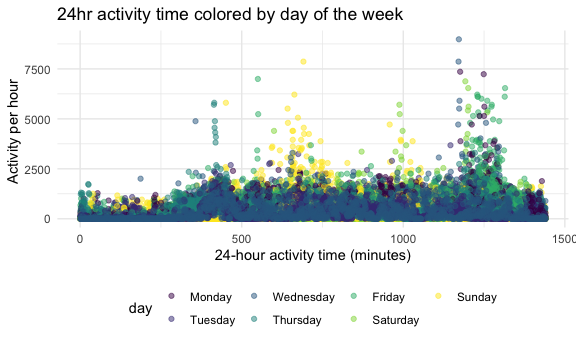
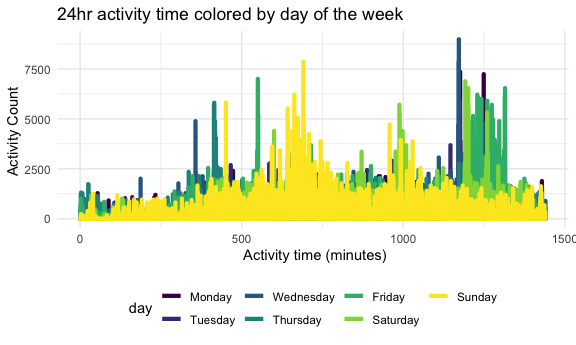
Reworked P1, P2 and initial work for P3

diff --git a/p8105_hw3_lcg2154.md b/p8105_hw3_lcg2154.md
@@ -163,6 +163,10 @@ pivot_wider(names_from = "day",
 |    4 | 409450.00 | 319568.0 |    434460 | 340291.0 | 154049.0 |     1440 | 260617 |
 |    5 | 389080.00 | 367824.0 |    445366 | 549658.0 | 620860.0 |     1440 | 138421 |
 
+``` r
+# Talk more about trends
+```
+
 **Total Activity Data Trend**: Based on the table above, there seems to
 be a trend in increase of activity on weekends in the beginning weeks
 (week 1 and 2). Then the values begin to increase significantly during
@@ -178,16 +182,106 @@ words any patterns or conclusions you can make based on this graph.
 ``` r
 accelerometer_df %>%
   ggplot(aes(x = time, y = activity_count, color = day)) + 
-  geom_point(alpha = 0.5) +
+  geom_line(size = 1.5) +
   #geom_smooth(aes(group = day), se = FALSE) +
   labs(
     title = "24hr activity time colored by day of the week",
-    x = "24-hour activity time (minutes)",
-    y = "Activity per hour ")
+    x = " Activity time (minutes)",
+    y = "Activity Count ")
 ```
 
 <img src="p8105_hw3_lcg2154_files/figure-gfm/unnamed-chunk-6-1.png" width="90%" />
+
+``` r
+#fix by aesthetics, add more transparency 
+# talk more about trends
+```
+
 **Description** Based on the single-panel plot above, we observe a
 greater activity count on days like Saturday and Sunday. The overall
 activity count seems to increase for most days, including weekdays,
 later in the 24-hour activity cycle around minute 1400.
+
+## Problem 3
+
+Import data
+
+``` r
+library(p8105.datasets)
+data("ny_noaa")
+```
+
+Write a short description of the data set, noting the size and structure
+of the data, describing some key variables, and indicating the extent to
+which missing data is an issue.
+
+``` r
+ny_noaa_df = ny_noaa %>% separate('date', c( 'year','month','day')) %>% 
+  mutate(
+    day = factor(day), 
+    prcp =  prcp/10,
+    prcp = as.integer(prcp), 
+    tmax = as.numeric(tmax), 
+    tmin = as.numeric(tmin), 
+    tmax = tmax/10,
+    tmin = tmin/10) %>% 
+  drop_na()
+# for snowfall what are the most commonly observed values? do count from first problem
+```
+
+The data set drew information from the National Oceanic and Atmospheric
+Association (NOAA) to report on 5 variables, day, id, month, prcp, snow,
+snwd, tmax, tmin, year, for New York State Weather Stations from January
+1, 1981 through December 31, 2010. There are a total of 1222433 rows and
+`rncol(ny_noaa_df)` columns in our final dataset.
+
+Make a two-panel plot showing the average max temperature in January and
+in July in each station across years. Is there any observable /
+interpretable structure? Any outliers?
+
+``` r
+Jan_July_averagemax_df =  ny_noaa_df  %>% 
+  group_by(month, year, id) %>% 
+  filter(month %in% c("01","07")) %>% 
+  summarize(average_tmax = mean(tmax)) %>% 
+  mutate( year = as.numeric(year)) %>%
+  ggplot(aes(x = year, y = average_tmax, group = id)) +
+  geom_point() +
+  geom_path() +
+  facet_grid(~ month) +
+  labs( 
+     title = "Mean average temperature for January and July across stations and years", 
+      x = "year", 
+     y = "average max temperature(C)")
+```
+
+    ## `summarise()` regrouping output by 'month', 'year' (override with `.groups` argument)
+
+``` r
+#structure is conserving between stations, one year warmer than other
+```
+
+Make a two-panel plot showing (i) tmax vs tmin for the full dataset
+(note that a scatterplot may not be the best option)
+
+``` r
+tmax_tmin_df =
+  ny_noaa_df %>%
+  ggplot(aes(x = tmin, y = tmax)) + geom_hex()
+```
+
+2)  make a plot showing the distribution of snowfall values greater than
+    0 and less than 100 separately by year.
+
+<!-- end list -->
+
+``` r
+snowfall_df = 
+  ny_noaa_df %>%
+  drop_na() %>%
+  filter( 'snow' > 0, 'snow' < 100 ) %>%
+  ggplot(aes(x = year , y = snow, color = year)) +
+  geom_boxplot() +
+  labs( x = "Year", 
+        y = "Snowfall Values (mm)")
+```
